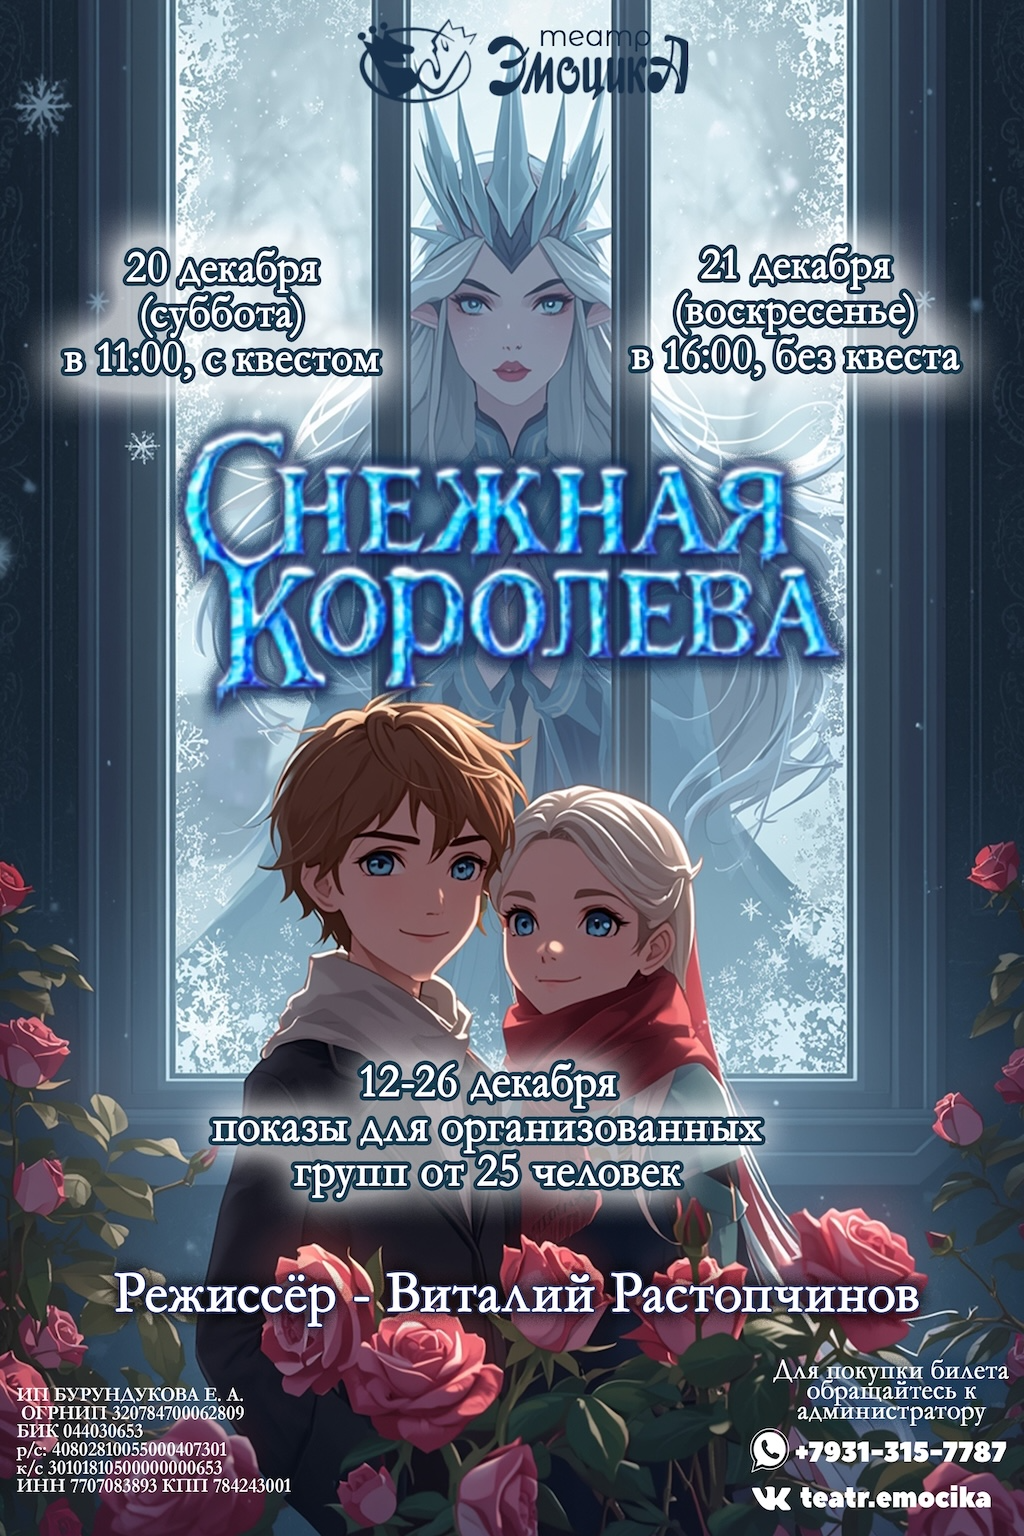
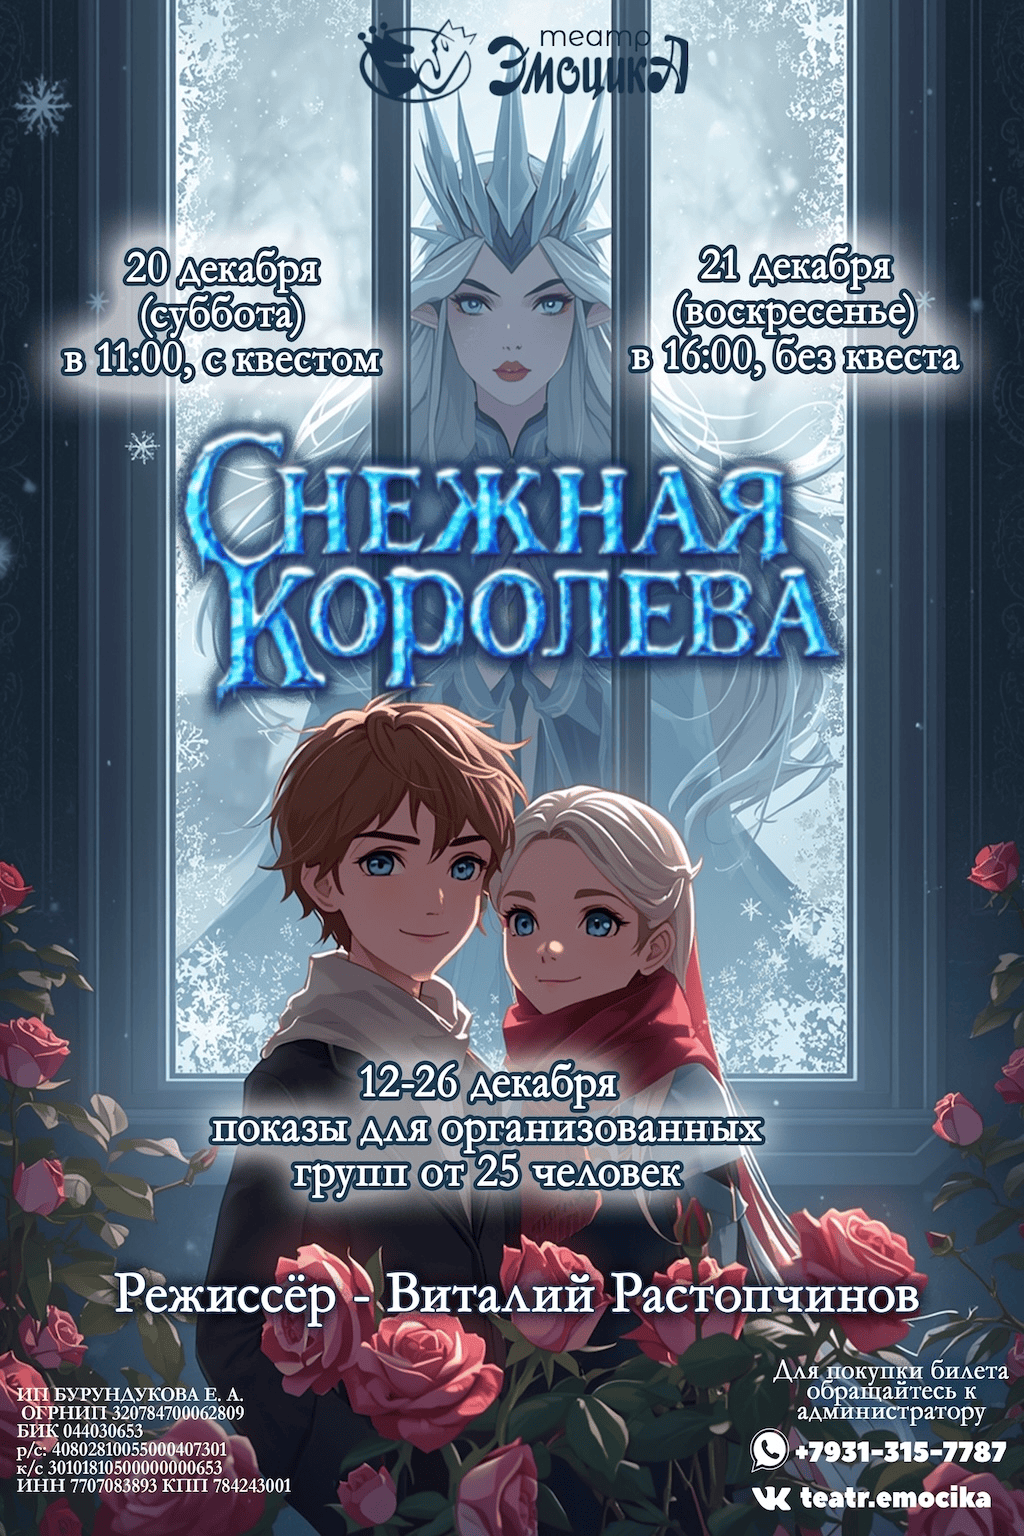
reduce image size

diff --git a/index.html b/index.html
@@ -209,10 +209,6 @@
               </a>
             </li>
           </ul>
-
-          <!-- <p class="docs-note">
-            Актуальные версии документов всегда лежат здесь. При изменениях мы обновляем файлы.
-          </p> -->
         </div>
         </div>
       </div>

diff --git a/assets/css/style.css b/assets/css/style.css
@@ -1201,6 +1201,9 @@ body.is-lightbox-open {
     display: flex;
     margin-top: 12px;
   }
+  .hero-actions--mobile .btn-primary {
+    opacity: 1;
+  }
   .hero-actions--mobile .btn {
     width: 100%;
     max-width: 340px;
